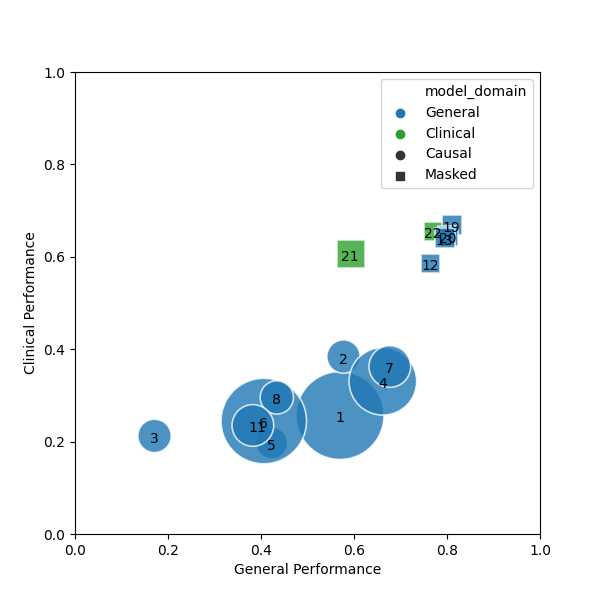
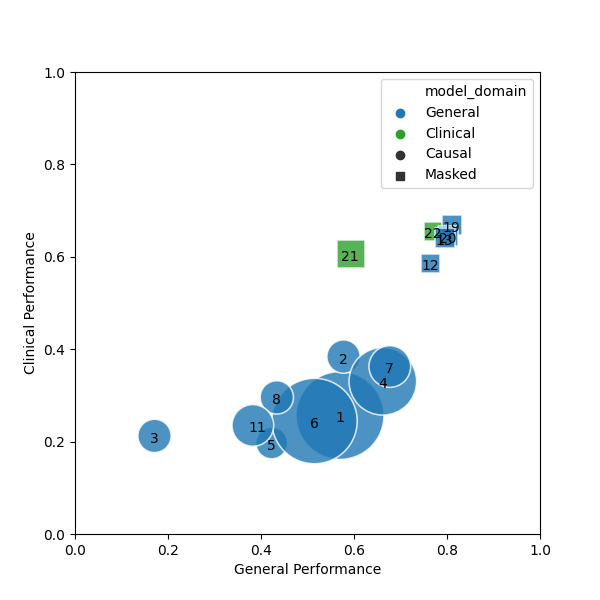
res

Changed region(s): [[0.36, 0.63, 0.6, 0.78]]

diff --git a/tabs_and_plots/results_table.tex b/tabs_and_plots/results_table.tex
@@ -11,12 +11,12 @@
  & 3 & BLOOM-7B1 & 0.524 & 0.557 & 0.279 & 0.113 & - & 0.136 & 0.206 & 0.32 & 0.197 & 0.12 & 0.0 & 0.419 & 0.051 & 0.117 \\
  & 4 & Falcon-40B & 0.686 & 0.708 & 0.28 & 0.279 & - & 0.662 & - & 0.378 & - & 0.283 & 0.72 & 0.543 & 0.072 & - \\
  & 5 & GPT-J-6B & 0.521 & 0.493 & 0.167 & 0.179 & - & 0.423 & - & 0.334 & 0.08 & 0.177 & 0.005 & 0.142 & 0.021 & - \\
- & 6 & OPT-66B & 0.608 & 0.495 & - & 0.157 & - & - & 0.406 & - & 0.206 & 0.283 & - & - & - & - \\
+ & 6 & OPT-66B & 0.608 & 0.495 & - & 0.157 & - & 0.624 & 0.406 & - & 0.206 & 0.283 & - & - & - & - \\
  & 7 & Vicuna-13B & 0.657 & 0.708 & 0.355 & 0.236 & - & 0.677 & - & 0.399 & - & 0.326 & 0.744 & 0.25 & 0.04 & - \\
  & 8 & Vicuna-7B & 0.594 & 0.489 & 0.259 & 0.147 & - & 0.591 & 0.277 & 0.439 & 0.152 & 0.296 & 0.659 & 0.569 & 0.042 & 0.151 \\
  & 9 & BioMedLM & - & 0.223 & 0.024 & - & - & - & - & - & - & 0.019 & - & - & - & - \\
  & 10 & Medalpaca-7B & - & 0.558 & - & 0.191 & - & - & - & - & 0.161 & 0.224 & - & - & - & - \\
- & 11 & Vigogne-13B & 0.593 & 0.655 & 0.252 & 0.176 & - & 0.515 & 0.25 & 0.464 & 0.099 & 0.142 & 0.58 & 0.561 & 0.01 & - \\
+ & 11 & Vigogne-13B & 0.593 & 0.655 & 0.252 & 0.176 & - & 0.515 & 0.25 & 0.464 & 0.099 & 0.142 & 0.58 & 0.561 & 0.01 & 0.198 \\
 \midrule
 \multirow{15}{*}{\rotatebox[origin=c]{90}{Masked}} & 12 & mBERT & 0.768 & 0.804 & 0.624 & 0.378 & - & 0.801 & 0.728 & 0.741 & 0.588 & 0.428 & 0.812 & 0.76 & 0.324 & 0.432 \\
  & 13 & XLM-RoBERTa-large & 0.786 & 0.826 & 0.637 & 0.462 & - & 0.811 & 0.781 & 0.762 & 0.629 & 0.531 & 0.797 & 0.781 & 0.325 & 0.528 \\
